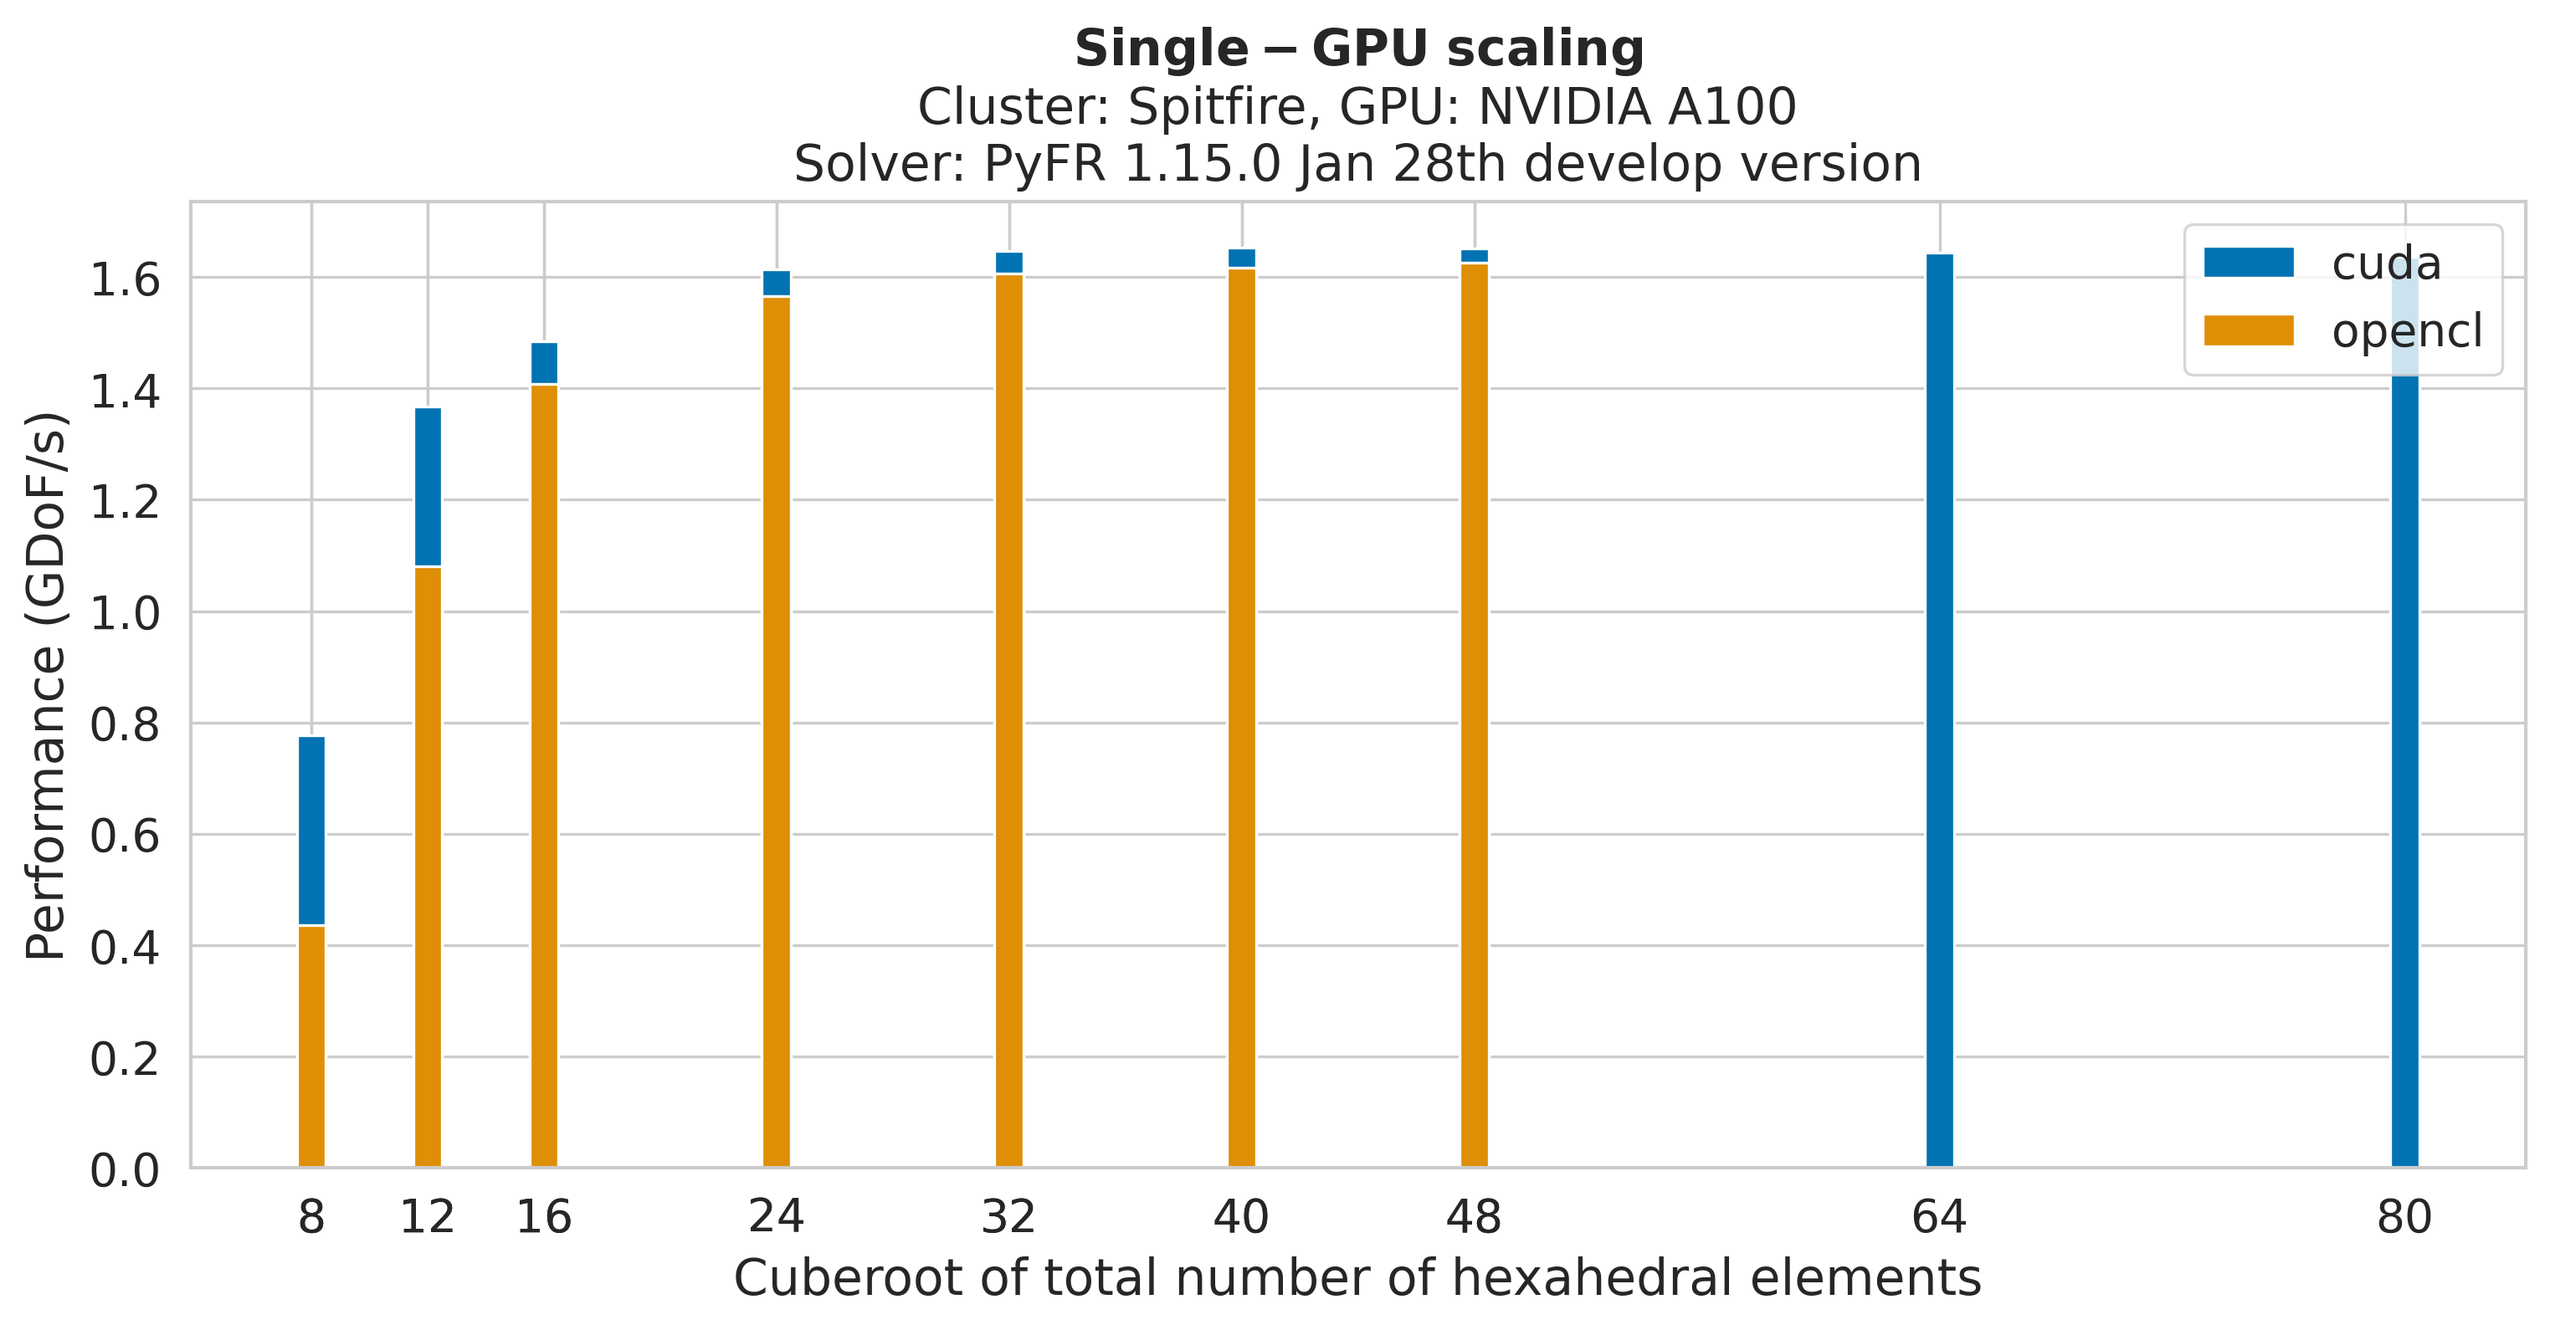
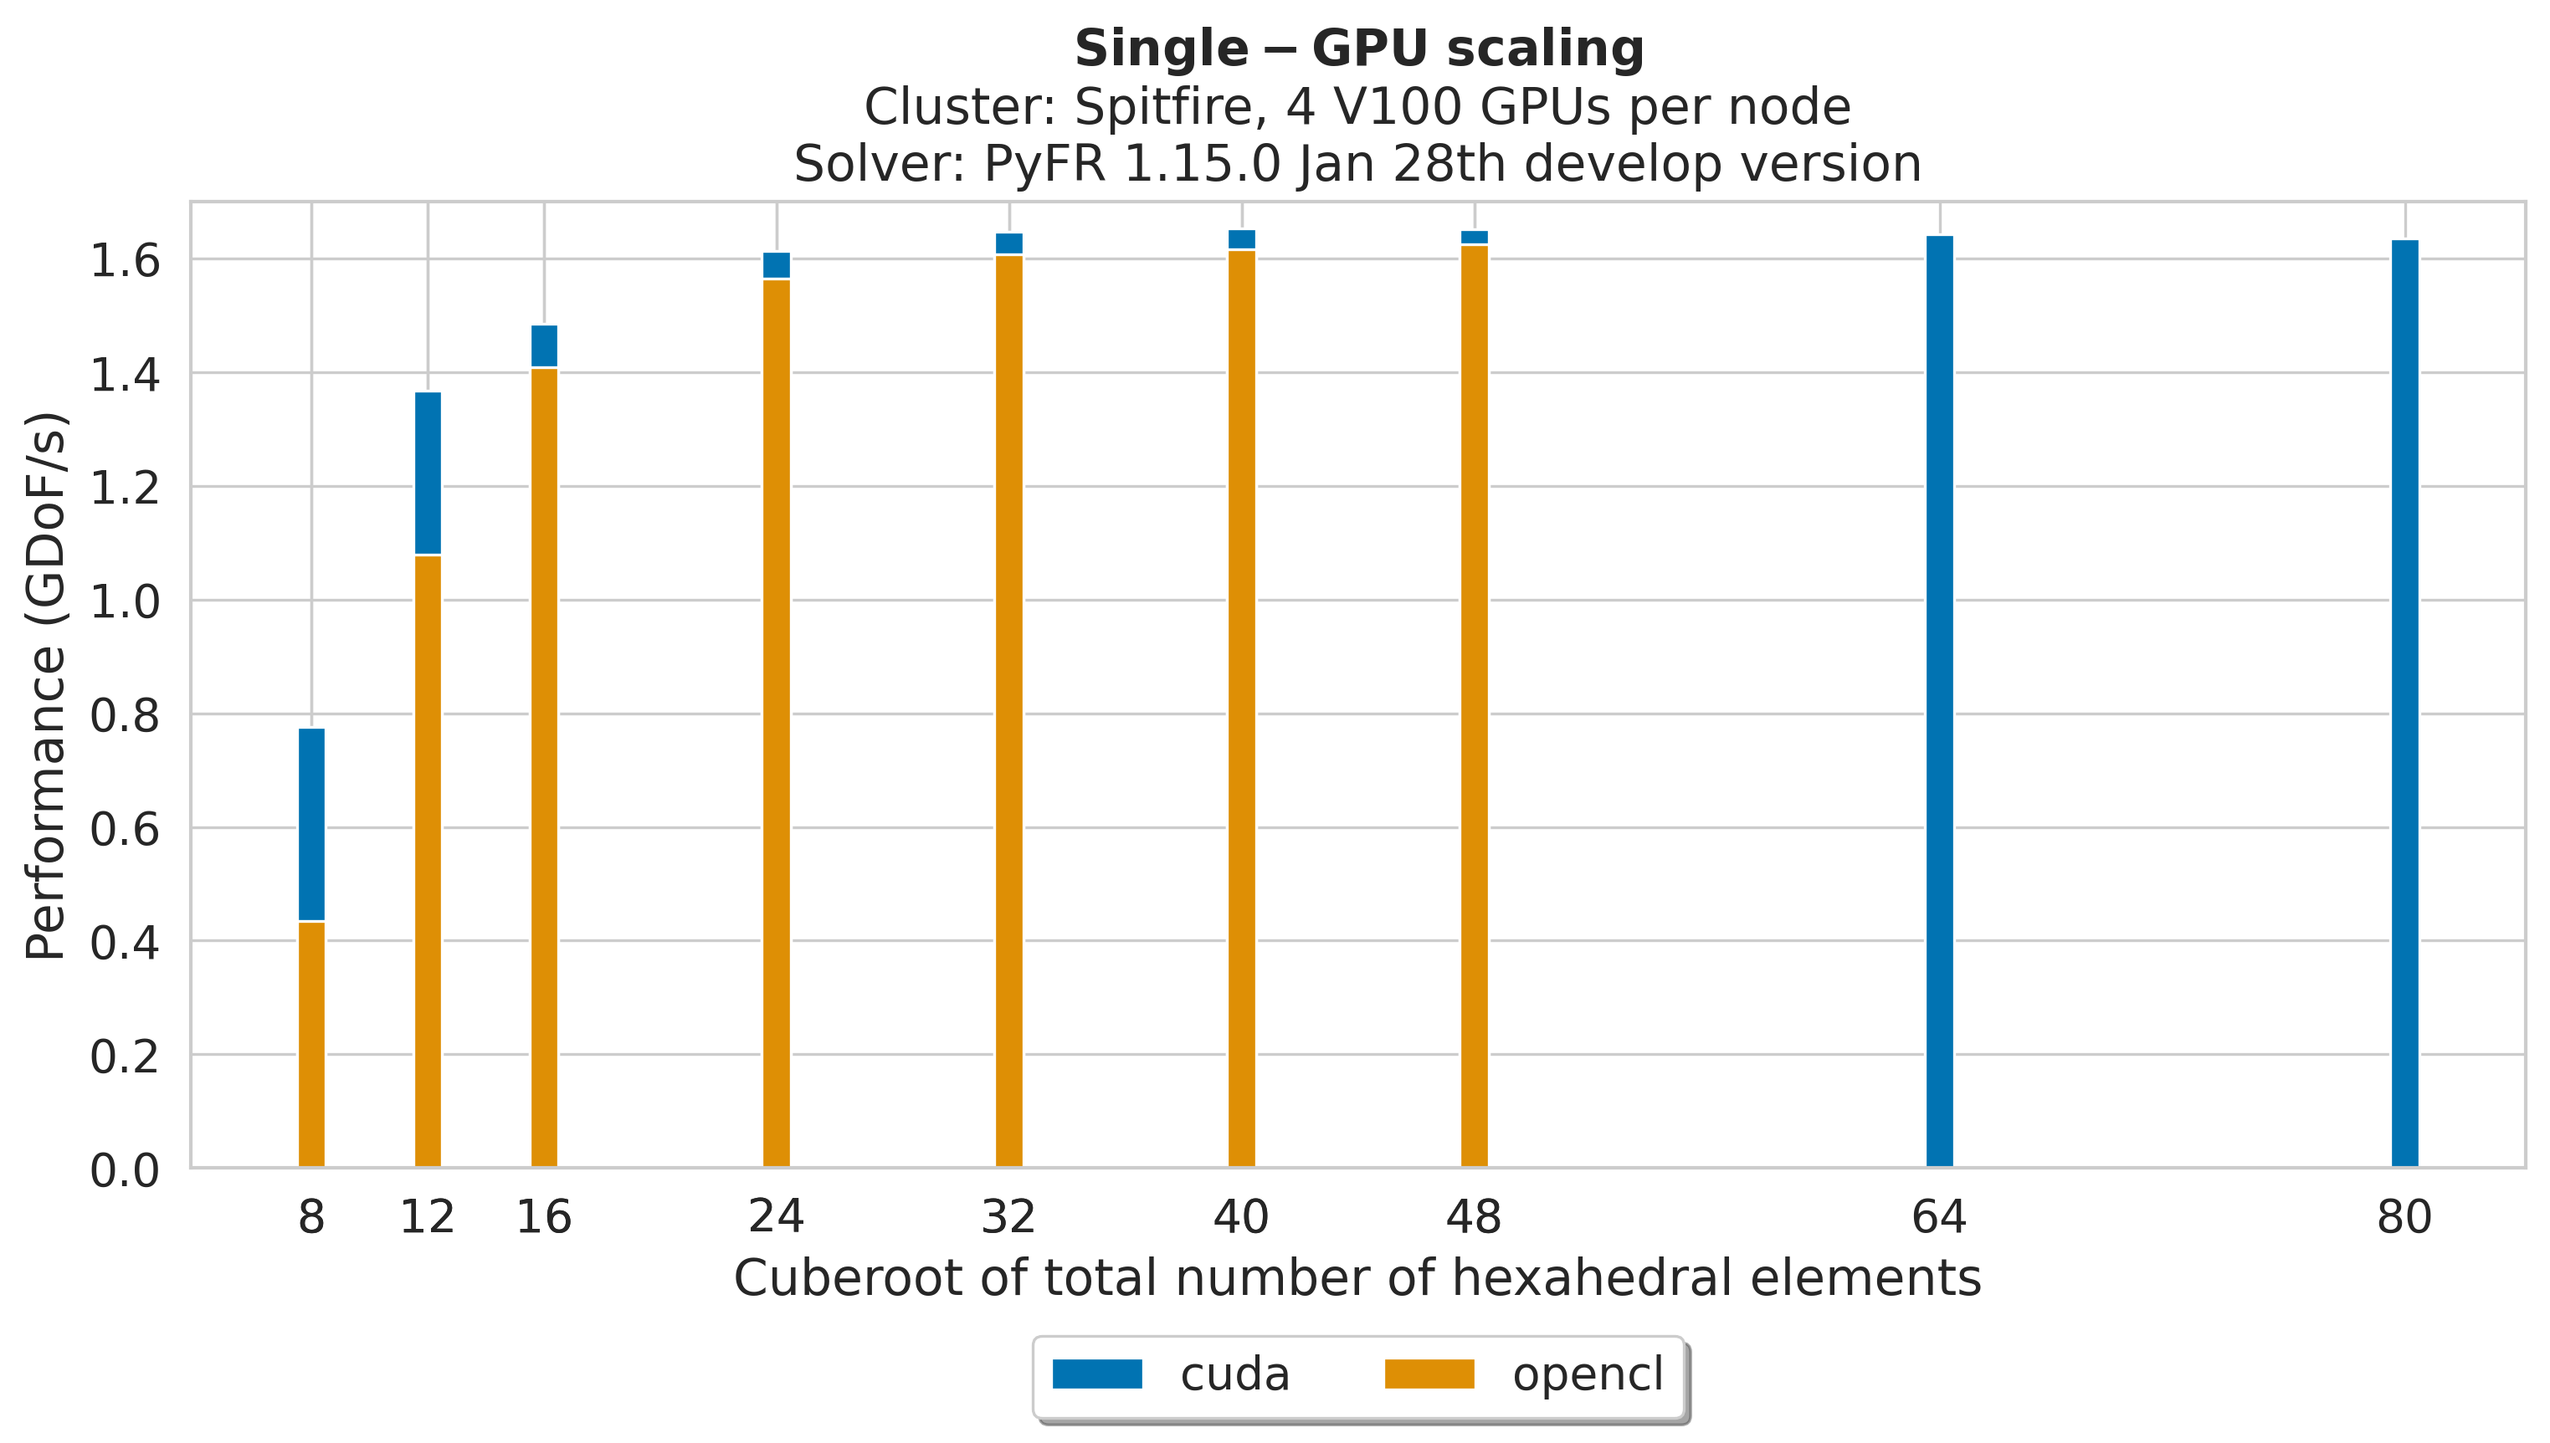
ACES push

diff --git a/Scaling_results/WeakScaling.py b/Scaling_results/WeakScaling.py
@@ -10,6 +10,23 @@ if len(sys.argv) != 2:
     
 input_file = sys.argv[1]
 
+# If the input_file contains the strong 'ACES'
+if 'ACES' in input_file:
+    cluster='ACES'
+elif 'Spitfire' in input_file:
+    cluster='Spitfire'
+else:
+    raise ValueError(f"Cluster not supported")
+
+if 'V100' in input_file:
+    GPU='V100'
+    GPUs_per_node=4
+elif 'PVC' in input_file:
+    GPU='PVC'
+    GPUs_per_node=4
+else:
+    raise ValueError(f"GPU not supported")
+
 # Read the input file
 
 # Set the aesthetics for the plot
@@ -19,7 +36,8 @@ sns.set_palette("colorblind")
 
 # Read the performance data from the CSV file
 df = pd.read_csv(input_file,
-    usecols=['backend', 'caware', 'elements', 'tasks',  'DoFs', 'mean-perf',  'mean-perf-per-GPU', ])
+    usecols=['backend', 'caware', 'elements', 'tasks',  'DoFs', 
+             'mean-perf',  'mean-perf-per-GPU', ])
 
 fig, ax = plt.subplots(figsize=(12, 5))
 
@@ -42,9 +60,15 @@ line_colors = ['grey', 'green', 'red']
 
 for element in df['Weak-scaling-group'].unique():
 
-    if element == 48:
+    if element == 32:
         line_style = line_styles[0]
         alpha = alphas[0]
+    elif element == 48:
+        line_style = line_styles[1]
+        alpha = alphas[1]
+    elif element == 64:
+        line_style = line_styles[2]
+        alpha = alphas[2]
     else:
         raise ValueError(f"Element {element} not supported")
 
@@ -61,9 +85,9 @@ for element in df['Weak-scaling-group'].unique():
             elif backend == 'opencl' and caware == 0:
                 line_color = line_colors[2]
 
-            ax.plot(df_caware['tasks'], df_caware['mean-perf']/1e9, line_style, 
+            ax.plot(df_caware['tasks'], df_caware['mean-perf-per-GPU']/1e9, line_style, 
                     color=line_color, alpha=alpha,
-                    label=f'{element}^3 elements, {backend}, {caware}')
+                    label=f'{element}^3 elements per GPU, {backend}, {caware}')
 
 # for element in elements:
 #     # Get the subset of the data for the current element
@@ -75,23 +99,23 @@ for element in df['Weak-scaling-group'].unique():
 
 #ax.hlines(1, 0, df['Tasks'].max(), colors='k', linestyles='dashed', label='Ideal scaling')
 
-first_entry = df.iloc[0]['mean-perf']/1e9
-
 #ax.plot(df['elements'], first_entry/df['mean-perf'], 'o-', label='Single GPU')
 
 ax.set_title(r'$\mathbf{Weak\ scaling}$'+'\n'+
-                'Cluster: Spitfire, 4 NVIDIA A100 GPUs per node\n'+
+                f'Cluster: {cluster}, {GPUs_per_node} {GPU} GPUs per node\n'+
                 'Solver: PyFR 1.15.0 Jan 28th develop version')
 
 ax.set_xlabel('Number of GPUs')
 # A second x-axis for DoFs, just below elements
 
-ax.set_ylabel('Performance (GDoF/s)')
+ax.set_ylabel('Performance per GPU (GDoF/s/GPU)')
               
 #ax.set_ylabel('Performance metric\n'
 #                'Computations performed per unit runtime per GPU \n '
 #                '(GigaDegrees of Freedom per second per GPU â¡ GDoF/s/GPU)')
-ax.set_ylim(bottom=0)
+ax.set_ylim(bottom=0, top=1.7)
+
+ax.set_xlim(left=0, right=80)
 
 # outside
 ax.legend(loc='upper center', bbox_to_anchor=(0.5, -0.15),
@@ -110,4 +134,4 @@ ax.legend(loc='upper center', bbox_to_anchor=(0.5, -0.15),
 #         verticalalignment='top', bbox=dict(boxstyle='round', facecolor='wheat', alpha=0.5))
 
 # Save
-plt.savefig(f'Spitfire-V100_WeakScaling.png', dpi=300, bbox_inches='tight')
+plt.savefig(f'{cluster}-{GPU}_WeakScaling.png', dpi=300, bbox_inches='tight')

diff --git a/Scaling_results/Single-GPU.py b/Scaling_results/Single-GPU.py
@@ -10,12 +10,26 @@ if len(sys.argv) != 2:
     
 input_file = sys.argv[1]
 
+# If the input_file contains the strong 'ACES'
+if 'ACES' in input_file:
+    cluster='ACES'
+elif 'Spitfire' in input_file:
+    cluster='Spitfire'
+else:
+    raise ValueError(f"Cluster not supported")
+
+if 'V100' in input_file:
+    GPU='V100'
+    GPUs_per_node=4
+elif 'PVC' in input_file:
+    GPU='PVC'
+    GPUs_per_node=4
+else:
+    raise ValueError(f"GPU not supported")
+
 # Read the input file
 
 # Set the aesthetics for the plot
-sns.set_style('whitegrid')
-sns.set_context("paper", font_scale=1.4)
-
 sns.set_style('whitegrid')
 sns.set_context("paper", font_scale=1.5)
 sns.set_palette("colorblind")
@@ -53,12 +67,10 @@ for backend, df_backend in df.groupby('backend'):
 
 #ax.hlines(1, 0, df['Tasks'].max(), colors='k', linestyles='dashed', label='Ideal scaling')
 
-first_entry = df.iloc[0]['mean-perf']/1e9
-
 #ax.plot(df['elements'], first_entry/df['mean-perf'], 'o-', label='Single GPU')
 
 ax.set_title(r'$\mathbf{Single-GPU\ scaling}$'+'\n'+
-                'Cluster: Spitfire, GPU: NVIDIA A100\n'+
+                f'Cluster: {cluster}, {GPUs_per_node} {GPU} GPUs per node\n'+
                 'Solver: PyFR 1.15.0 Jan 28th develop version')
 
 ax.set_xlabel('Cuberoot of total number of hexahedral elements')
@@ -72,9 +84,11 @@ ax.set_ylabel('Performance (GDoF/s)')
 #ax.set_ylabel('Performance metric\n'
 #                'Computations performed per unit runtime per GPU \n '
 #                '(GigaDegrees of Freedom per second per GPU â¡ GDoF/s/GPU)')
-ax.set_ylim(bottom=0)
+ax.set_ylim(bottom=0, top=1.7)
 
-ax.legend()
+
+ax.legend(loc='upper center', bbox_to_anchor=(0.5, -0.15),
+          fancybox=True, shadow=True, ncol=3)
 
 # Create a NOTE box below the plot
 
@@ -89,4 +103,4 @@ ax.legend()
 #         verticalalignment='top', bbox=dict(boxstyle='round', facecolor='wheat', alpha=0.5))
 
 # Save
-plt.savefig(f'Spitfire-V100_SingleGPUScaling.png', dpi=300, bbox_inches='tight')
+plt.savefig(f'{cluster}-{GPU}_SingleGPUScaling.png', dpi=300, bbox_inches='tight')

diff --git a/Scaling_results/StrongScaling.py b/Scaling_results/StrongScaling.py
@@ -10,6 +10,22 @@ if len(sys.argv) != 2:
     
 input_file = sys.argv[1]
 
+# If the input_file contains the strong 'ACES'
+if 'ACES' in input_file:
+    cluster='ACES'
+elif 'Spitfire' in input_file:
+    cluster='Spitfire'
+else:
+    raise ValueError(f"Cluster not supported")
+
+if 'V100' in input_file:
+    GPU='V100'
+    GPUs_per_node=4
+elif 'PVC' in input_file:
+    GPU='PVC'
+    GPUs_per_node=4
+else:
+    raise ValueError(f"GPU not supported")
 
 # Read the input file
 
@@ -80,8 +96,8 @@ first_entry = df.iloc[0]['mean-perf']/1e9
 
 #ax.plot(df['elements'], first_entry/df['mean-perf'], 'o-', label='Single GPU')
 
-ax.set_title(r'$\mathbf{Single-GPU\ scaling}$'+'\n'+
-                'Cluster: Spitfire, 4 NVIDIA A100 GPUs per node\n'+
+ax.set_title(r'$\mathbf{Strong\ scaling}$'+'\n'+
+                f'Cluster: {cluster}, {GPUs_per_node} {GPU} GPUs per node\n'+
                 'Solver: PyFR 1.15.0 Jan 28th develop version')
 
 ax.set_xlabel('Tasks')
@@ -92,7 +108,8 @@ ax.set_ylabel('Performance (GDoF/s)')
 #ax.set_ylabel('Performance metric\n'
 #                'Computations performed per unit runtime per GPU \n '
 #                '(GigaDegrees of Freedom per second per GPU â¡ GDoF/s/GPU)')
-ax.set_ylim(bottom=0)
+ax.set_ylim(bottom=0, top=40)
+ax.set_xlim(left=0, right=80)
 
 # outside
 ax.legend(loc='upper center', bbox_to_anchor=(0.5, -0.15),
@@ -111,4 +128,4 @@ ax.legend(loc='upper center', bbox_to_anchor=(0.5, -0.15),
 #         verticalalignment='top', bbox=dict(boxstyle='round', facecolor='wheat', alpha=0.5))
 
 # Save
-plt.savefig(f'Spitfire-V100_StrongScaling.png', dpi=300, bbox_inches='tight')
+plt.savefig(f'{cluster}-{GPU}_StrongScaling.png', dpi=300, bbox_inches='tight')
